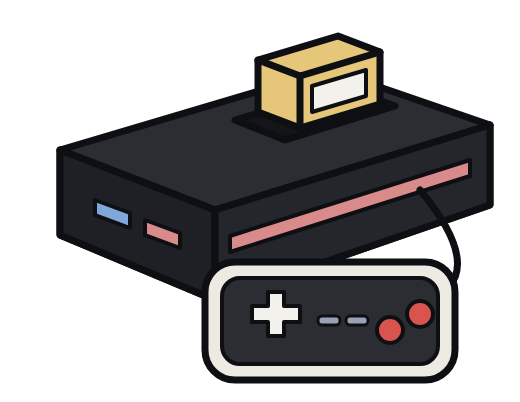
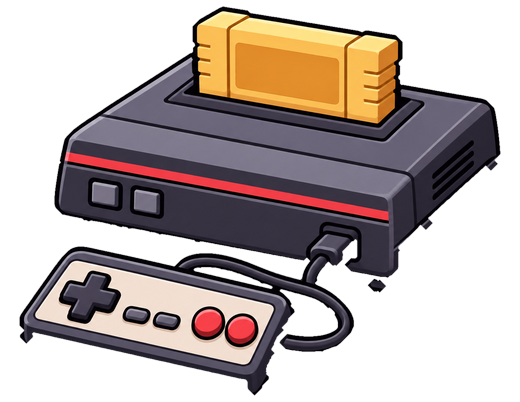
0.35.1: картинка приставки Денди
Claude-Session: https://claude.ai/code/session_011RThRwNAHFqKrZ3Xvw7jwh

diff --git a/plans/ROADMAP.md b/plans/ROADMAP.md
@@ -668,3 +668,6 @@
 ## 0.35.0
 - Денди (Famicom): ядро FCEUmm (GPL-2.0), файлы .nes/.unf/.unif (проверка заголовка NES␚ / UNIF), своя картинка приставки
   без логотипов Nintendo, свой джойстик (крестовина, B, A, турбо B/A через ядро, Select, Start) в Touch и «Классике», без вопроса о жанре.
+
+## 0.35.1
+- Новая картинка приставки Денди (сгенерирована в стиле остальных консолей, вырезана из чёрного фона).
